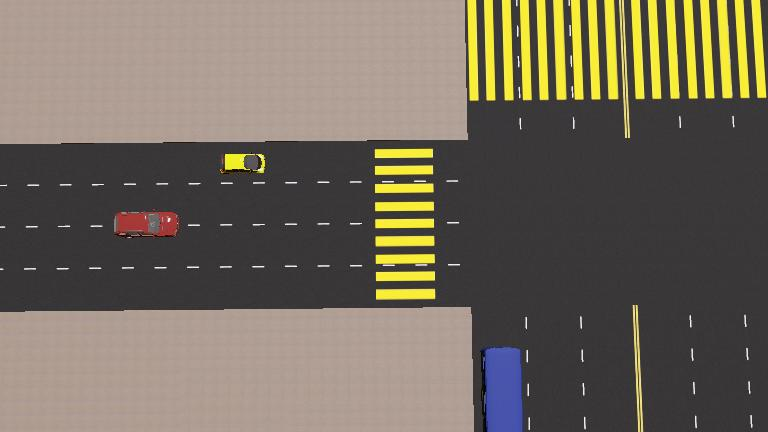
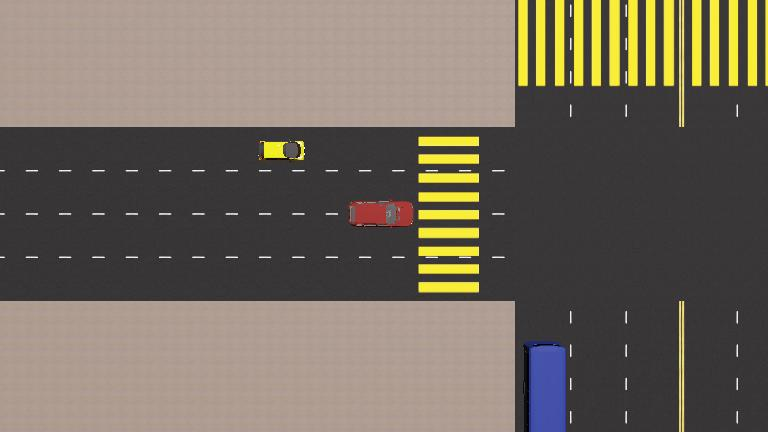
feat : integrate path planner with all process

diff --git a/working_space/controllers/TeslaModel3/TeslaModel3.py b/working_space/controllers/TeslaModel3/TeslaModel3.py
@@ -45,29 +45,45 @@ def webots_sim():
     tesla_state = make_situation(driver, dt)
     dt = driver.getBasicTimeStep() / 1000 # [s] 늘려야할 수도 있음
     tesla_state.update()
-    # grid_map = generate_grid_map("data/data.json")
 
-    grid_map = np.zeros((500, 500))
+    x_tmp = 24.9
+    y_tmp = 80 # webot -> grid map 보정값
+    scaling = 10
+    grid_map = generate_grid_map("data/data.json")
     first_iteration = True
     i = 0
     points_collision = request_to_LLM()
     while i < len(points_collision):
+        tesla_state.update()
+        print('direct cur postion :', tesla_state.get_position())
         start = np.array([tesla_state.x, tesla_state.y])
         goal = np.array([points_collision[i, X], points_collision[i, Y]])
-
         """ RRT* Path Planning """
-        # rrt_star = RRTStarPlanner(grid_map, start, goal, tesla_state.v)
-        # points_waypoint = rrt_star.plan()
-        # if points_waypoint is None:
-        #     print('No Path, Retry')
-        #     continue
+        start_point = [(start[X] + x_tmp) * scaling, (start[Y] + y_tmp) * scaling]
+        goal_point = [(goal[X] + x_tmp) * scaling, (goal[Y] + y_tmp) * scaling]
+        print('start_point:', start_point)
+        print('goal_point:', goal_point)
+        rrt_star = RRTStarPlanner(grid_map, start_point, goal_point, tesla_state.v)
+        #  [[0.00000000e+00 8.00000000e+02 0.00000000e+00]
+        #  [1.91000000e+02 9.00000000e+02 4.84135046e-01]
+        #  [2.26000000e+02 9.10000000e+02 0.00000000e+00]]
+        points_waypoint = rrt_star.plan()
+        if points_waypoint is None:
+            driver.step()
+            print('No Path, Retry')
+            print('path:', points_waypoint)
+            continue
+        points_waypoint[:, X] /= scaling
+        points_waypoint[:, Y] /= scaling
+        points_waypoint[:, X] -= x_tmp
+        points_waypoint[:, Y] -= y_tmp
 
         # """ 디버깅 용도 """
-        middle_point = np.array([(start[X] + points_collision[i, X]) / 2, 
-                                 (start[Y] + points_collision[i, Y]) / 2])
-        # 수기로 입력
-        points_waypoint = np.vstack([start, middle_point, points_collision[i]])
-        points_waypoint = np.hstack((points_waypoint, np.zeros((points_waypoint.shape[0], 1))))
+        # middle_point = np.array([(start[X] + points_collision[i, X]) / 2, 
+        #                          (start[Y] + points_collision[i, Y]) / 2])
+        # # 수기로 입력
+        # points_waypoint = np.vstack([start, middle_point, points_collision[i]])
+        # points_waypoint = np.hstack((points_waypoint, np.zeros((points_waypoint.shape[0], 1))))
 
         """ Spline2D Path Planning """
         spline2d_planner = Spline2dPlanner(points_waypoint, tesla_state.v * dt, 'linear')

diff --git a/working_space/controllers/TeslaModel3/lib/rrt_star_planner.py b/working_space/controllers/TeslaModel3/lib/rrt_star_planner.py
@@ -26,11 +26,11 @@ class RRTStarPlanner:
         start,
         goal,
         velocity=30,  # unit [m/s]
-        goal_radius=10,
+        goal_radius=100,
         max_iter=10000,
         min_turn_radius=TESLA_MIN_RADIUS,
     ):
-        alpha = 3.6 / 3  # 속도에 반비례하여 step size[m] 결정하기 위한 하이퍼 파라미터
+        alpha = 3.6 / 0.5  # 속도에 반비례하여 step size[m] 결정하기 위한 하이퍼 파라미터
         self.grid = grid
         self.start = Node(*start)
         self.goal = Node(*goal)

diff --git a/working_space/controllers/TeslaModel3/lib/convention.py b/working_space/controllers/TeslaModel3/lib/convention.py
@@ -20,7 +20,7 @@ N_IND_SEARCH        = 10                                # [th] Search indextic V
 
 GOAL_DIS            = 10.0  #                           # [m] goal distance
 STOP_SPEED          = 10 / 3.6                          # [m/s] stop speed
-TARGET_SPEED        = 72 / 3.6                         # [m/s] target speed
+TARGET_SPEED        = 36 / 3.6                         # [m/s] target speed
 DL                  = 1.0                               # course tick
 N_IND_SEARCH        = 10                                # Search index number
 MAX_SPEED           = 261.0 / 3.6                       # maximum speed [m/s]  # 261.0 km/h